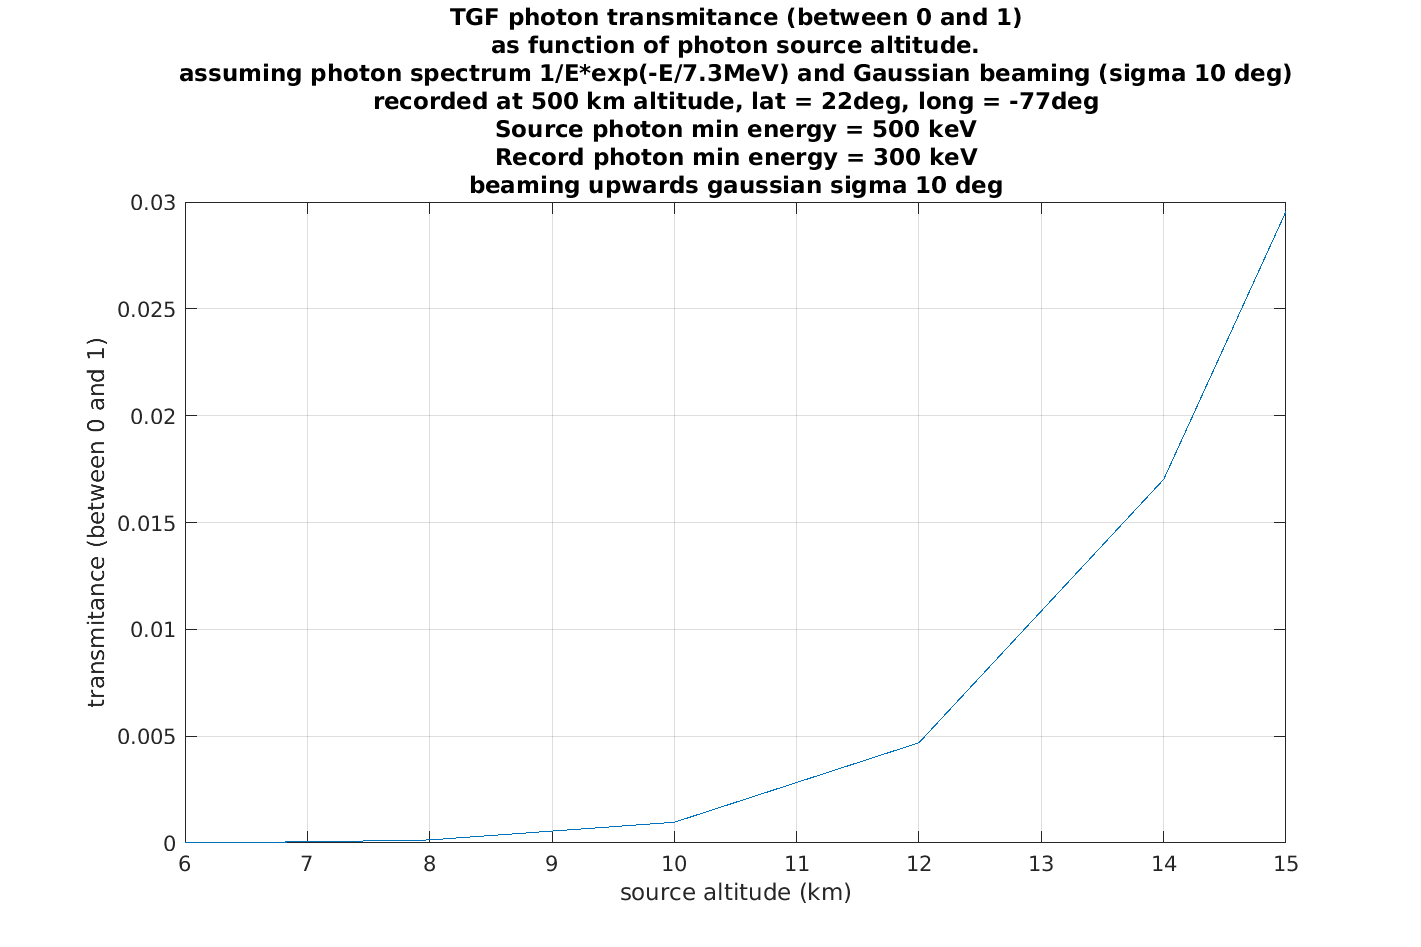
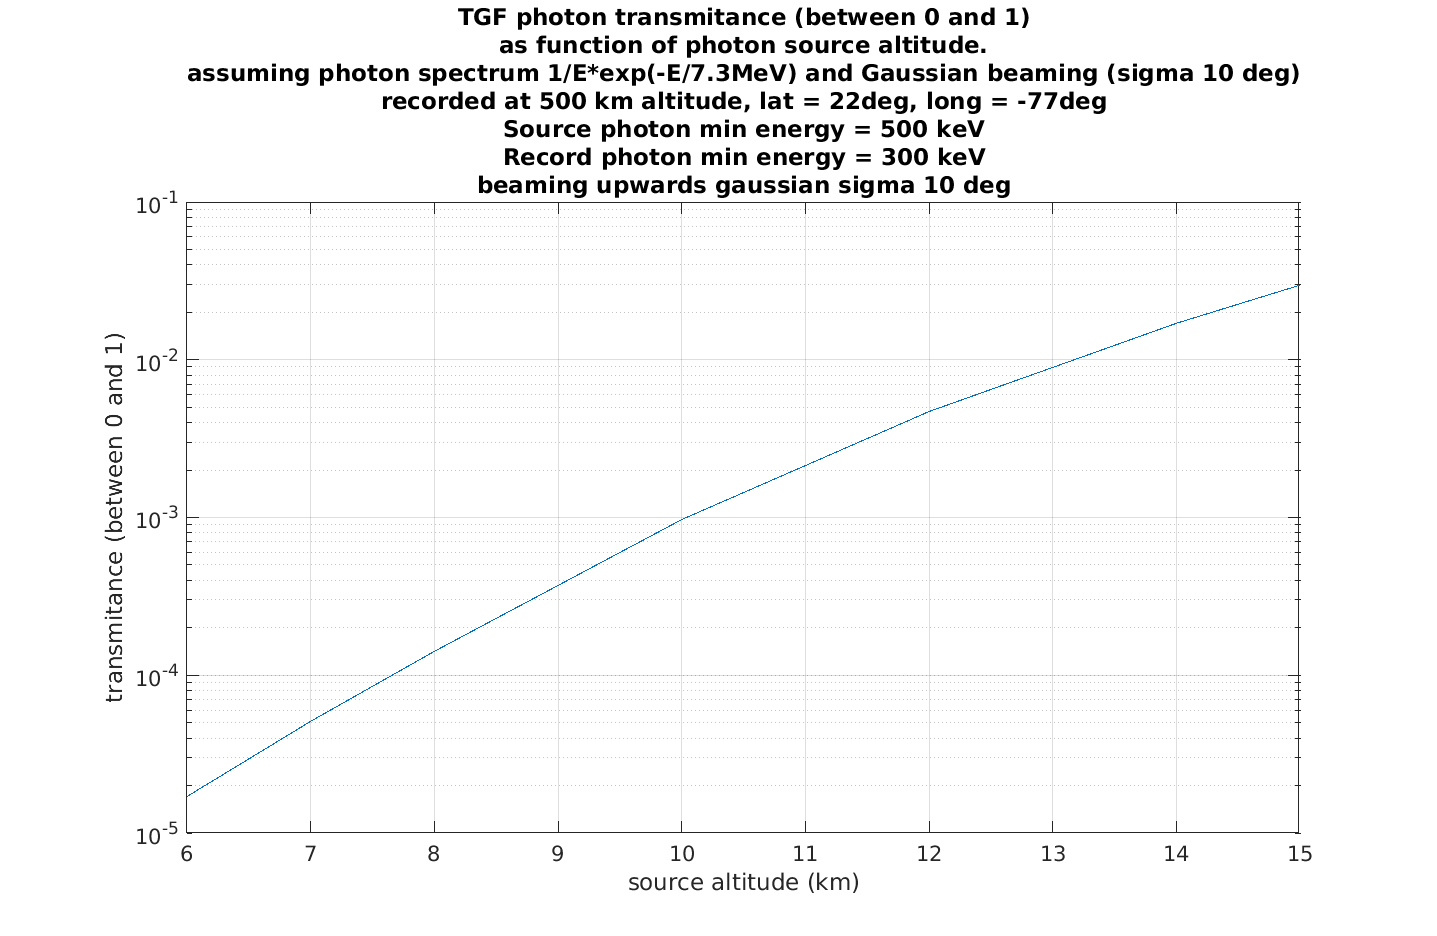
updated

diff --git a/src/src/PrimaryGeneratorAction.cc b/src/src/PrimaryGeneratorAction.cc
@@ -39,7 +39,7 @@ using namespace std;
 PrimaryGeneratorAction::PrimaryGeneratorAction(Settings::Settings set_in)
         : G4VUserPrimaryGeneratorAction(), fParticleGun(nullptr) {
 
-    this->settings=std::move(set_in);
+    this->settings = std::move(set_in);
 
     fParticleGun = new G4ParticleGun(nofParticles);
 
@@ -47,12 +47,31 @@ PrimaryGeneratorAction::PrimaryGeneratorAction(Settings::Settings set_in)
     G4ParticleDefinition *particle = particleTable->FindParticle("gamma");
     fParticleGun->SetParticleDefinition(particle);
 
+    for (int ii = 0; ii < data_RB.size() - 1; ii = ii + 2) {
+        data_RB_x.push_back(data_RB[ii]);
+        data_RB_y.push_back(data_RB[ii + 1]);
+    }
+    data_RB_x.push_back(0.0);
+
+    RB_sampler = new histogram_sampler(data_RB_x,data_RB_y);
+
 }
 
 // ....oooOO0OOooo........oooOO0OOooo........oooOO0OOooo........oooOO0OOooo......
 
 PrimaryGeneratorAction::~PrimaryGeneratorAction() {
     delete fParticleGun;
+}
+
+double PrimaryGeneratorAction::GenerateDwyerReverseBeam(const double &emin, const double &emax) {
+
+    double candidate = 0.0;
+
+    while (candidate<emin) {
+        candidate = RB_sampler->Inverse_Cumul_sampling() * MeV;
+    }
+
+    return candidate;
 }
 
 // ....oooOO0OOooo........oooOO0OOooo........oooOO0OOooo........oooOO0OOooo......
@@ -66,12 +85,21 @@ void PrimaryGeneratorAction::GeneratePrimaries(G4Event *anEvent) {
     G4double MaxEner = 40. * MeV; // Max energy
     G4double MinEner = 500. * keV; // Min energy
     G4double cut_ener = settings.E0 * MeV; // exponential cut-off factor
-    G4double energy = Sample_one_RREA_gammaray_energy(MinEner, MaxEner, cut_ener, settings.ALPHA);
 
-if (settings.ALPHA<0) {
-    G4cout << "ERROR: ALPHA MUST BE POSITIVE AS THE FORMULA IS E^-ALPHA * EXP(-E/E0). ABORTING" << G4endl;
-    std::abort();
-}
+    G4double energy = 0.0;
+
+    if ( settings.SPEC_TYPE == std::string("usual")) {
+        energy = Sample_one_RREA_gammaray_energy(MinEner, MaxEner, cut_ener, settings.ALPHA);
+    } else if ( settings.SPEC_TYPE == std::string("dwyer_reverse_beam")) {
+        // Dwyer inverse beam (positron) spectrum from Bower et al. 2018 https://doi.org/10.1029/2017JD027771
+        energy = GenerateDwyerReverseBeam(MinEner, 69 * MeV);
+    }
+
+
+    if (settings.ALPHA < 0) {
+        G4cout << "ERROR: ALPHA MUST BE POSITIVE AS THE FORMULA IS E^-ALPHA * EXP(-E/E0). ABORTING" << G4endl;
+        std::abort();
+    }
 
     ////////////// POSITION / ANGLE /////////////////
     // ! : sampling theta uniformly between 0 and SOURCE_OPENING_ANGLE*degree does not sample uniformly over the area
@@ -209,8 +237,8 @@ PrimaryGeneratorAction::Sample_one_RREA_gammaray_energy(double &MinEner, double 
     //     G4double energy=MinEner*(pow(((MaxEner)/(MinEner)),G4UniformRand())); // code for sampling 1/E
     // (rejection method)
     G4double H = cut_ener;
-    G4double pMax = std::pow(MinEner,-power) * exp(-MinEner / H);
-    G4double pMin = std::pow(MaxEner,-power) * exp(-MaxEner / H);
+    G4double pMax = std::pow(MinEner, -power) * exp(-MinEner / H);
+    G4double pMin = std::pow(MaxEner, -power) * exp(-MaxEner / H);
     G4double pOfeRand = 0.0;
     G4double pRand = 1.0;
     G4double eRand;
@@ -218,7 +246,7 @@ PrimaryGeneratorAction::Sample_one_RREA_gammaray_energy(double &MinEner, double 
     while (pOfeRand < pRand) { // rejection
         pRand = pMin + (pMax - pMin) * G4UniformRand();
         eRand = MinEner + (MaxEner - MinEner) * G4UniformRand();
-        pOfeRand = std::pow(eRand,-power) * exp(-eRand / H);
+        pOfeRand = std::pow(eRand, -power) * exp(-eRand / H);
     }
 
     return eRand;

diff --git a/src/src/histogram_sampler.cc b/src/src/histogram_sampler.cc
@@ -1,0 +1,104 @@
+//
+// Created by dsa030 on 6/28/19.
+//
+
+#include "histogram_sampler.hh"
+
+histogram_sampler::histogram_sampler(const std::vector<double> binss, const std::vector<double> valuess) {
+
+    // valuess,binss = tabulated function(=distribution) that we want to sample from
+    // f is assumed positive, linear per segment, continuous
+
+    if (binss.size() != valuess.size() + 1) {
+        std::cout << "ERROR in histogram_sampler : bins.size() != values.size() + 1  ;;; ABORTING" << std::endl;
+        std::abort();
+    }
+
+    this->bins = binss;
+    this->f = valuess;
+
+    nb_bins = bins.size();
+
+    for (int jj = 0; jj <= nb_bins - 2; ++jj) {
+        bin_centers.push_back((bins[jj] + bins[jj + 1]) / 2.0);
+    }
+
+    nPoints = bin_centers.size();
+
+    initialize_distrubtion_sampling();
+
+}
+
+//....oooOO0OOooo........oooOO0OOooo........oooOO0OOooo........oooOO0OOooo......
+
+histogram_sampler::~histogram_sampler() {
+
+}
+
+//....oooOO0OOooo........oooOO0OOooo........oooOO0OOooo........oooOO0OOooo......
+
+double histogram_sampler::Inverse_Cumul_sampling()
+// sampling energy from spectrum using the inverse cumulative distribution function method
+// also proceeds to interpolation
+{
+    // tabulated function
+    // f is assumed positive, linear per segment, continuous 
+    // --> cumulative function is second order polynomial
+
+    //choose y randomly
+    double y_rndm = my_UniformRand() * Fc[nPoints - 1];
+
+    //find bin
+    int j = nPoints - 2;
+    while ((Fc[j] > y_rndm) && (j > 0)) j--;
+
+    //y_rndm --> x_rndm :  Fc(x) is second order polynomial
+    double x_rndm = bin_centers[j];
+    double aa = a[j];
+
+    if (aa != 0.) {
+        double b = f[j] / aa, c = 2 * (y_rndm - Fc[j]) / aa;
+        double delta = b * b + c;
+        int sign = 1;
+        if (aa < 0.) sign = -1;
+        x_rndm += sign * std::sqrt(delta) - b;
+    } else if (f[j] > 0.) {
+        x_rndm += (y_rndm - Fc[j]) / f[j];
+    }
+
+    return x_rndm;
+
+}
+
+//....oooOO0OOooo........oooOO0OOooo........oooOO0OOooo........oooOO0OOooo......
+
+void histogram_sampler::initialize_distrubtion_sampling()
+// compute useful quantities for the inverse cumulative distribution sampling
+{
+    // compute fMax
+    fMax = 0.;
+
+    for (int ii = 0; ii < nPoints; ii++) {
+        if (fMax < f[ii]) fMax = f[ii];
+    }
+
+    //compute slopes
+    for (int ii = 0; ii < nPoints - 1; ii++) {
+        a.push_back((f[ii + 1] - f[ii]) / (bin_centers[ii + 1] - bin_centers[ii]));
+    }
+
+    //compute cumulative function
+    Fc.push_back(0.0);
+
+    for (int jj = 1; jj < nPoints; jj++) {
+        Fc.push_back(Fc[jj - 1] + 0.5 * (f[jj] + f[jj - 1]) * (bin_centers[jj] - bin_centers[jj - 1]));
+    }
+
+}
+
+//....oooOO0OOooo........oooOO0OOooo........oooOO0OOooo........oooOO0OOooo......
+
+double histogram_sampler::my_UniformRand() {
+    std::uniform_real_distribution<double> distribution(0.0, 1.0);
+    return distribution(generator);
+}

diff --git a/PLOT_RESULTS.m b/PLOT_RESULTS.m
@@ -7,6 +7,7 @@ set(0,'DefaultFigureWindowStyle','normal')
 
 MIN_ENERGY = 300; %keV
 
+! rm -rf fused.txt
 ! cat ./build/output_ascii/* > fused.txt
 
 yy=importdata('fused.txt');
@@ -47,14 +48,16 @@ transmitance(isnan(transmitance))=0;
 
 plot(ALT_LIST,transmitance)
 
+set(gca,'yscale','log')
+
 grid on
 
-title({'TGF photon transmitance (between 0 and 1)', 'as function of photon source altitude.','assuming photon spectrum 1/E*exp(-E/7.3MeV) and Gaussian beaming (sigma 10 deg)','recorded at 500 km altitude, lat = 22deg, long = -77deg','Source photon min energy = 500 keV','Record photon min energy = 300 keV','beaming upwards gaussian sigma 10 deg'})
+%title({'TGF photon transmitance (between 0 and 1)', 'as function of photon source altitude.','assuming photon spectrum 1/E*exp(-E/7.3MeV) and Gaussian beaming (sigma 10 deg)','recorded at 500 km altitude, lat = 22deg, long = -77deg','Source photon min energy = 500 keV','Record photon min energy = 300 keV','beaming upwards gaussian sigma 10 deg'})
 
 xlabel('source altitude (km)')
 ylabel('transmitance (between 0 and 1)')
 
-saveas(gcf,'result_transmitance.png')
+saveas(gcf,'result_transmitance_reverse_beam.png')
 
 % text(10,0.015,num2str(transmitance))
 %     [N,bins] = histcounts(e_kept,bins);

diff --git a/src/src/DetectorConstruction.cc b/src/src/DetectorConstruction.cc
@@ -674,8 +674,8 @@ std::vector<G4Material *> TGFDetectorConstruction::GENERATE_AIR_MATERIALS(double
         Air_OUT.back()->AddMaterial(O2, fractionOfMass = proporO2);
         Air_OUT.back()->AddMaterial(Ar, fractionOfMass = proporAr);
 
-        G4cout << "Air material nb " << ii << " is built for ALT = " << input.alt
-               << " km, at TGF Source LAT and LON (can be used at other ALT for different LAT/LON when the world is built)." << G4endl;
+        //G4cout << "Air material nb " << ii << " is built for ALT = " << input.alt
+        //       << " km, at TGF Source LAT and LON (can be used at other ALT for different LAT/LON when the world is built)." << G4endl;
     }
 
     if (Air_OUT.size() != density_grid.size()) {
